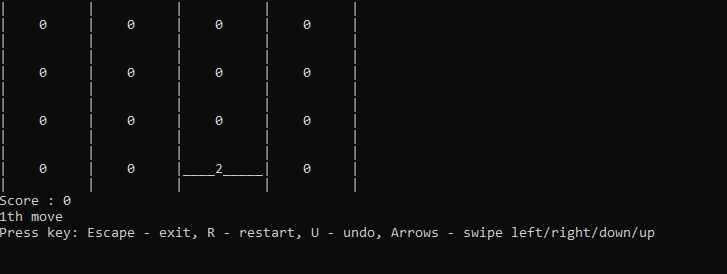
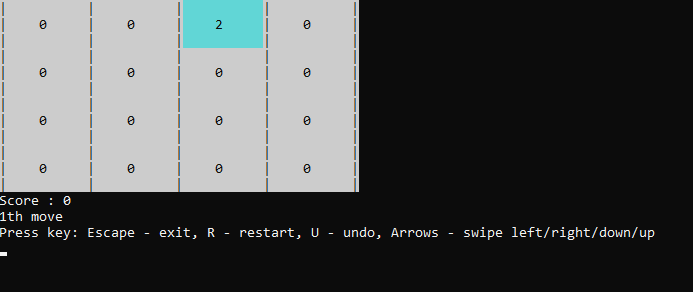
Add colors to cells

diff --git a/ConsoleIo.cs b/ConsoleIo.cs
@@ -9,9 +9,8 @@ namespace Game2048
         /// Перевод числа в строку для отображения в консоли
         /// </summary>
         /// <param name="valueInt">Число</param>
-        /// <param name="repeatedChar">Символ для заполнения пустоты</param>
         /// <returns>Строка</returns>
-        public static string FieldValue2String(int valueInt, char repeatedChar = ' ')
+        public static string FieldValue2String(int valueInt)
         {
             var valueStr = $"{valueInt}";
             var whiteSpaceCount = FieldWidth - valueStr.Length;
@@ -19,46 +18,92 @@ namespace Game2048
                 throw new Exception($"Число {valueInt} нельзя отобразить в интерфейсе!");
             var whiteSpaceLeftCount = whiteSpaceCount/2;
             var whiteSpaceRightCount = whiteSpaceCount - whiteSpaceLeftCount;
-            return $"{new string(repeatedChar,whiteSpaceLeftCount)}{valueStr}{new string(repeatedChar, whiteSpaceRightCount)}|";
+            return $"{new string(' ',whiteSpaceLeftCount)}{valueStr}{new string(' ', whiteSpaceRightCount)}";
         }
         /// <summary>
         /// Строка для отображения пустого ряда чисел
         /// </summary>
-        /// <param name="columnCount">Число колонок</param>
-        /// <param name="repeatedChar">Символ для заполнения пустоты</param>
         /// <returns></returns>
-        public static string RowPlaceHolderString(int columnCount, char repeatedChar = ' ')
+        public static string CellPlaceHolderString()
         {
-            var ret = "|";
-            for (var i = 1; i <= columnCount; i++)
-            {
-                ret += $"{new string(repeatedChar, FieldWidth)}|";
-            }
-            return ret;
+            return $"{new string(' ', FieldWidth)}";
         }
+
         /// <summary>
         /// Вывод двумерного массива в консоль (1-е измерение - строки, 2-е измерение - колонки)
         /// </summary>
         /// <param name="fields">Массив</param>
-        /// <param name="underScoredRowNo">Номер строки выделяемой ячейки</param>
-        /// <param name="underScoredColumnNo">Номер колонки выделяемой ячейки</param>
-        public static void ShowFields(int[,] fields, int underScoredRowNo, int underScoredColumnNo)
+        /// <param name="highlightedRowNo">Номер строки выделяемой ячейки</param>
+        /// <param name="highlightedColumnNo">Номер колонки выделяемой ячейки</param>
+        /// <param name="baseBackGroundColor">Базовый фоновый цвет</param>
+        /// <param name="highlightedColor">Фоновый цвет выделяемой ячейки</param>
+        public static void ShowFields(int[,] fields, ConsoleColor baseBackGroundColor, ConsoleColor highlightedColor, int highlightedRowNo, int highlightedColumnNo)
         {
             var columnCount = fields.GetLength(1);
 
+            Console.BackgroundColor = baseBackGroundColor;
+            Console.ForegroundColor = ConsoleColor.Black;
+
             for (var i = 0; i < fields.GetLength(0); i++)
             {
-                Console.WriteLine(RowPlaceHolderString(columnCount));
-
-                var rowString = "|";
+                var row = new int[columnCount];
                 for (var j = 0; j < columnCount; j++)
                 {
-                    rowString += FieldValue2String(fields[i,j], i==underScoredRowNo && j==underScoredColumnNo ? '_' : ' ');
+                    row[j] = fields[i, j];
                 }
-                Console.WriteLine(rowString);
 
-                Console.WriteLine(RowPlaceHolderString(columnCount));
+                ShowRow(row, baseBackGroundColor, highlightedColor, i == highlightedRowNo ? highlightedColumnNo : -1);
             }
+
+            Console.BackgroundColor = ConsoleColor.Black;
+            Console.ForegroundColor = ConsoleColor.White;
+        }
+        /// <summary>
+        /// Вывод строки массива в консоль
+        /// </summary>
+        /// <param name="row">Строка</param>
+        /// <param name="baseBackGroundColor"></param>
+        /// <param name="highlightedColor"></param>
+        /// <param name="highlightedColumnNo"></param>
+        public static void ShowRow(int[] row, ConsoleColor baseBackGroundColor, ConsoleColor highlightedColor, int highlightedColumnNo)
+        {
+            var columnCount = row.Length;
+
+            Console.BackgroundColor = baseBackGroundColor;
+            Console.Write('|');
+            for (var i = 0; i < columnCount; i++)
+            {
+                Console.BackgroundColor = i == highlightedColumnNo ? highlightedColor : baseBackGroundColor;
+                Console.Write(CellPlaceHolderString());
+                Console.BackgroundColor = baseBackGroundColor;
+                Console.Write('|');
+            }
+            Console.BackgroundColor = ConsoleColor.Black;
+            Console.WriteLine();
+
+            Console.BackgroundColor = baseBackGroundColor;
+            Console.Write('|');
+            for (var i = 0; i < columnCount; i++)
+            {
+                Console.BackgroundColor = i == highlightedColumnNo ? highlightedColor : baseBackGroundColor;
+                Console.Write(FieldValue2String(row[i]));
+                Console.BackgroundColor = baseBackGroundColor;
+                Console.Write('|');
+            }
+            Console.BackgroundColor = ConsoleColor.Black;
+            Console.WriteLine();
+
+            Console.BackgroundColor = baseBackGroundColor;
+            Console.Write('|');
+            for (var i = 0; i < columnCount; i++)
+            {
+                Console.BackgroundColor = i == highlightedColumnNo ? highlightedColor : baseBackGroundColor;
+                Console.Write(CellPlaceHolderString());
+                Console.BackgroundColor = baseBackGroundColor;
+                Console.Write('|');
+            }
+            Console.BackgroundColor = ConsoleColor.Black;
+            Console.WriteLine();
         }
     }
 }

diff --git a/GameController.cs b/GameController.cs
@@ -1,6 +1,5 @@
 using System;
 using System.Collections.Generic;
-using System.Net.Http.Headers;
 
 namespace Game2048
 {
@@ -67,14 +66,9 @@ namespace Game2048
                     continue;
                 }
 
-                if (Fields.IsSuccess)
-                {
-                    Console.WriteLine($"You win the game! Totally - {MoveNo() - 1} moves.");
-                }
-                else
-                {
-                    Console.WriteLine("There is no empty cell and no available move. You lost the game!");
-                }
+                Console.WriteLine(Fields.IsSuccess
+                    ? $"You win the game! Totally - {MoveNo() - 1} moves."
+                    : "There is no empty cell and no available move. You lost the game!");
 
                 var userAnswer = UserWantToRestart();
                 if (userAnswer == UserKeyPressedEnum.Escape)
@@ -88,8 +82,6 @@ namespace Game2048
                     case UserKeyPressedEnum.Undo:
                         Console.WriteLine(Undo() ? "Undo previous move." : "Unable to cancel previous move.");
                         break;
-                    default:
-                        break;
                 }
             }
         }
@@ -98,7 +90,7 @@ namespace Game2048
         /// </summary>
         public enum UserKeyPressedEnum
         {
-            None, Escape, Restart, Undo, Left, Right, Up, Down
+            Escape, Restart, Undo, Left, Right, Up, Down
         }
         /// <summary>
         /// Запрашиваем у пользователя его мысли на тему следующего хода

diff --git a/GameState.cs b/GameState.cs
@@ -160,7 +160,7 @@ namespace Game2048
         /// </summary>
         public void Show()
         {
-            ConsoleIo.ShowFields(FieldsArray, _newValueRowNo, _newValueColumnNo);
+            ConsoleIo.ShowFields(FieldsArray, ConsoleColor.Gray, ConsoleColor.Cyan, _newValueRowNo, _newValueColumnNo);
             Console.WriteLine($"Score : {Score}");
         }
         /// <summary>
@@ -186,7 +186,7 @@ namespace Game2048
         /// <returns></returns>
         public GameState Copy()
         {
-            return new GameState(){ _newValueColumnNo = _newValueColumnNo, _newValueRowNo = _newValueRowNo, FieldsArray = FieldsArray, Score = Score};
+            return new GameState { _newValueColumnNo = _newValueColumnNo, _newValueRowNo = _newValueRowNo, FieldsArray = FieldsArray, Score = Score};
         }
     }
 }

diff --git a/Program.cs b/Program.cs
@@ -2,7 +2,7 @@
 {
     internal class Program
     {
-        static void Main()
+        private static void Main()
         {
             var game = new GameController();
             game.Start();
